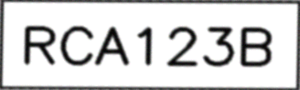
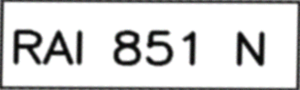
Update simulation script with real plate RAI 851 N

Changed region(s): [[0.03, 0.2667, 0.93, 0.7556]]

diff --git a/src/simulate.py b/src/simulate.py
@@ -15,7 +15,7 @@ def create_synthetic_frame():
     
     # Plate
     plate_clean = np.ones((100, 300, 3), dtype=np.uint8) * 255
-    cv2.putText(plate_clean, "RCA123B", (20, 70), cv2.FONT_HERSHEY_SIMPLEX, 1.8, (0, 0, 0), 4)
+    cv2.putText(plate_clean, "RAI 851 N", (10, 70), cv2.FONT_HERSHEY_SIMPLEX, 1.6, (0, 0, 0), 4)
     cv2.rectangle(plate_clean, (0, 0), (299, 99), (0, 0, 0), 3) 
     
     # Points for perspective transform (simulating the camera angle)
@@ -62,8 +62,8 @@ def main():
             try:
                 text = extract_text(aligned)
             except Exception as e:
-                print(f"Warning - Tesseract OCR failed ({e}). Using mock OCR result 'RCA123B' for simulation.")
-                text = "RCA123B"
+                print(f"Warning - Tesseract OCR failed ({e}). Using mock OCR result 'RAI851N' for simulation.")
+                text = "RAI851N"
                 
             valid_plate = validate_plate(text)
             print(f"Detected Text: '{text}'")
